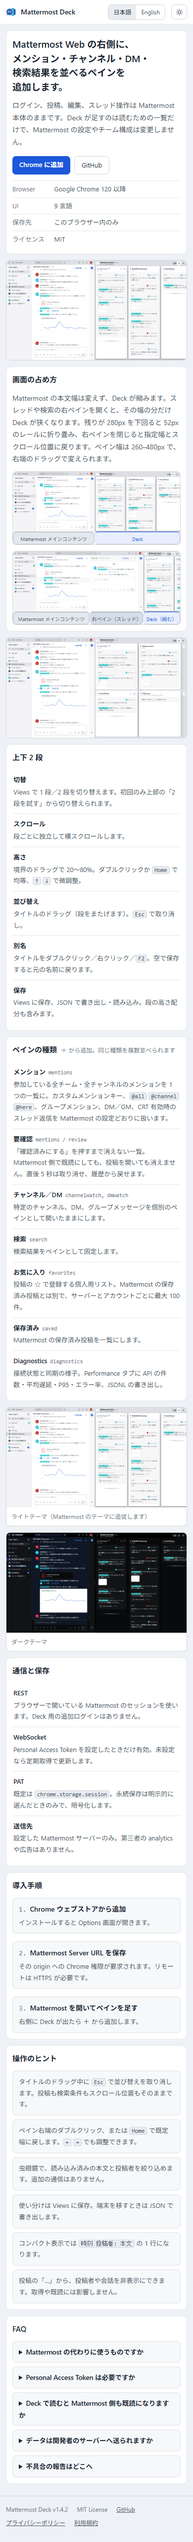
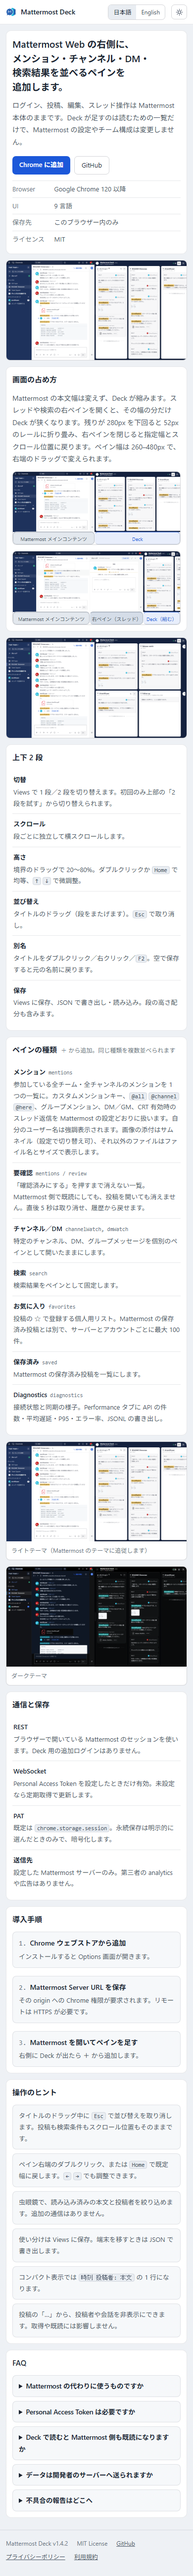
update: deploy-log attachment, Mattermost Denim theme for light captures, mentions description

Changed region(s): [[0.0308, 0.0, 0.9846, 0.9951], [0.8308, 0.0311, 0.8923, 0.0622]]

diff --git a/mock/deck-tone.html b/mock/deck-tone.html
@@ -106,7 +106,7 @@
   <section id="panes" class="pane">
     <h2><span lang="ja">ペインの種類</span><span lang="en">Pane types</span><span class="sub"><span lang="ja">＋ から追加。同じ種類を複数並べられます</span><span lang="en">Add with +. The same type can be used more than once</span></span></h2>
     <table class="list">
-      <tr><td class="k"><span lang="ja">メンション</span><span lang="en">Mentions</span><span class="id">mentions</span></td><td><span lang="ja">参加している全チーム・全チャンネルのメンションを 1 つの一覧に。カスタムメンションキー、<code>@all</code> <code>@channel</code> <code>@here</code>、グループメンション、DM／GM、CRT 有効時のスレッド返信を Mattermost の設定どおりに扱います。</span><span lang="en">Mentions from every joined team and channel in one list: custom keys, <code>@all</code> <code>@channel</code> <code>@here</code>, group mentions, DMs/GMs, and thread replies under CRT, resolved per your Mattermost settings.</span></td></tr>
+      <tr><td class="k"><span lang="ja">メンション</span><span lang="en">Mentions</span><span class="id">mentions</span></td><td><span lang="ja">参加している全チーム・全チャンネルのメンションを 1 つの一覧に。カスタムメンションキー、<code>@all</code> <code>@channel</code> <code>@here</code>、グループメンション、DM／GM、CRT 有効時のスレッド返信を Mattermost の設定どおりに扱います。自分のユーザー名は強調表示されます。画像の添付はサムネイル（設定で切り替え可）、それ以外のファイルはファイル名とサイズで表示します。</span><span lang="en">Mentions from every joined team and channel in one list: custom keys, <code>@all</code> <code>@channel</code> <code>@here</code>, group mentions, DMs/GMs, and thread replies under CRT, resolved per your Mattermost settings. Your own username is highlighted. Image attachments show as thumbnails (switchable in settings); other files show as a name and size.</span></td></tr>
       <tr><td class="k"><span lang="ja">要確認</span><span lang="en">Review</span><span class="id">mentions / review</span></td><td><span lang="ja">「確認済みにする」を押すまで消えない一覧。Mattermost 側で既読にしても、投稿を開いても消えません。直後 5 秒は取り消せ、履歴から戻せます。</span><span lang="en">Posts stay until you confirm them explicitly; reading or opening them in Mattermost does not remove them. Undo for five seconds; restore from history.</span></td></tr>
       <tr><td class="k"><span lang="ja">チャンネル／DM</span><span lang="en">Channel / DM</span><span class="id">channelWatch, dmWatch</span></td><td><span lang="ja">特定のチャンネル、DM、グループメッセージを個別のペインとして開いたままにします。</span><span lang="en">Keeps a channel, DM, or group message open as its own pane.</span></td></tr>
       <tr><td class="k"><span lang="ja">検索</span><span lang="en">Search</span><span class="id">search</span></td><td><span lang="ja">検索結果をペインとして固定します。</span><span lang="en">Pins a set of search results as a pane.</span></td></tr>
